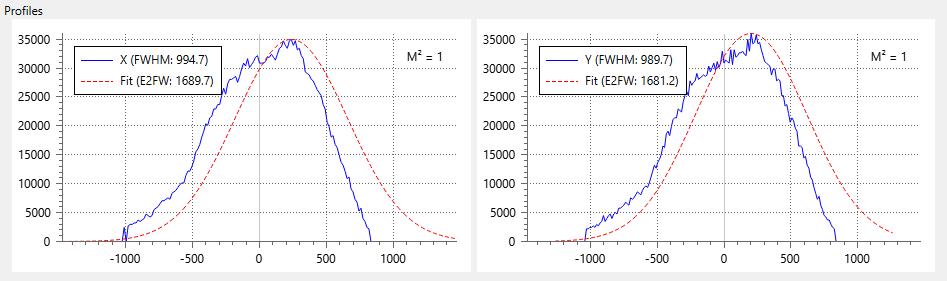
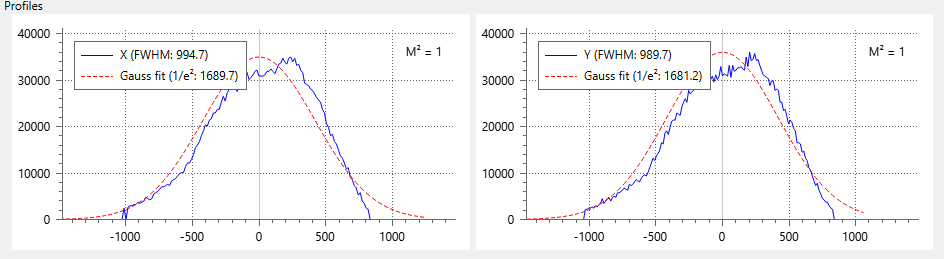
Clearer name for Gaussian fit plots

diff --git a/src/widgets/ProfilesView.cpp b/src/widgets/ProfilesView.cpp
@@ -326,8 +326,8 @@ void ProfilesView::showResult()
     if (_showFit) {
         const double wx = calcGaussFit(profileX, _fitX->data()->rawData(), gpX, _MI, _centerFit);
         const double wy = calcGaussFit(profileY, _fitY->data()->rawData(), gpY, _MI, _centerFit);
-        _fitX->setName(QStringLiteral("Fit (E2FW: %1)").arg(_scale.format(wx)));
-        _fitY->setName(QStringLiteral("Fit (E2FW: %1)").arg(_scale.format(wy)));
+        _fitX->setName(QStringLiteral("Gauss fit (1/e²: %1)").arg(_scale.format(wx)));
+        _fitY->setName(QStringLiteral("Gauss fit (1/e²: %1)").arg(_scale.format(wy)));
     }
 
     double rangeY = _showFullY ? _plotIntf->rangeMax() : qMax(gpX.amplitude, gpY.amplitude);

diff --git a/src/windows/PlotWindow.cpp b/src/windows/PlotWindow.cpp
@@ -400,6 +400,7 @@ void PlotWindow::createToolBar()
     tb->addSeparator();
     tb->addAction(_actionResultsPanel);
     tb->addAction(_actionHardConfig);
+    tb->addAction(_actionProfilesView);
     tb->addSeparator();
     tb->addAction(_actionUseRoi);
     tb->addAction(_actionUseMultiRoi);

diff --git a/bin/help/profiles_view.md b/bin/help/profiles_view.md
@@ -8,7 +8,7 @@
 
 The panel shows the cross-sections (profiles) of the beam spot over principal axes and an optional Gaussian fit for the data.
 
-For profile graphs, the full width at half maximum (FWHM) is shown. For the fitted graphs, the view calculates the Gaussian beam width at 1/e² level. Conventionally, the Gaussian beam width is given as a radius, but here it's displayed as a diameter (full width) to make it easier to compare with values displayed in the [results table](./results_table.md). The value is marked as E2FW on the plots.
+For profile graphs, the full width at half maximum (FWHM) is shown. For the fitted graphs, the view calculates the Gaussian beam width at 1/e² level. Conventionally, the Gaussian beam width is given as a radius, but here it's displayed as a diameter (full width) to make it easier to compare with values displayed in the [results table](./results_table.md).
 
 Horizontal axis labels of the profile plots and beam width values are displayed either in pixels or in physical units if this is enabled in [camera settings](./cam_settings_plot.md#rescale-pixels).
 
